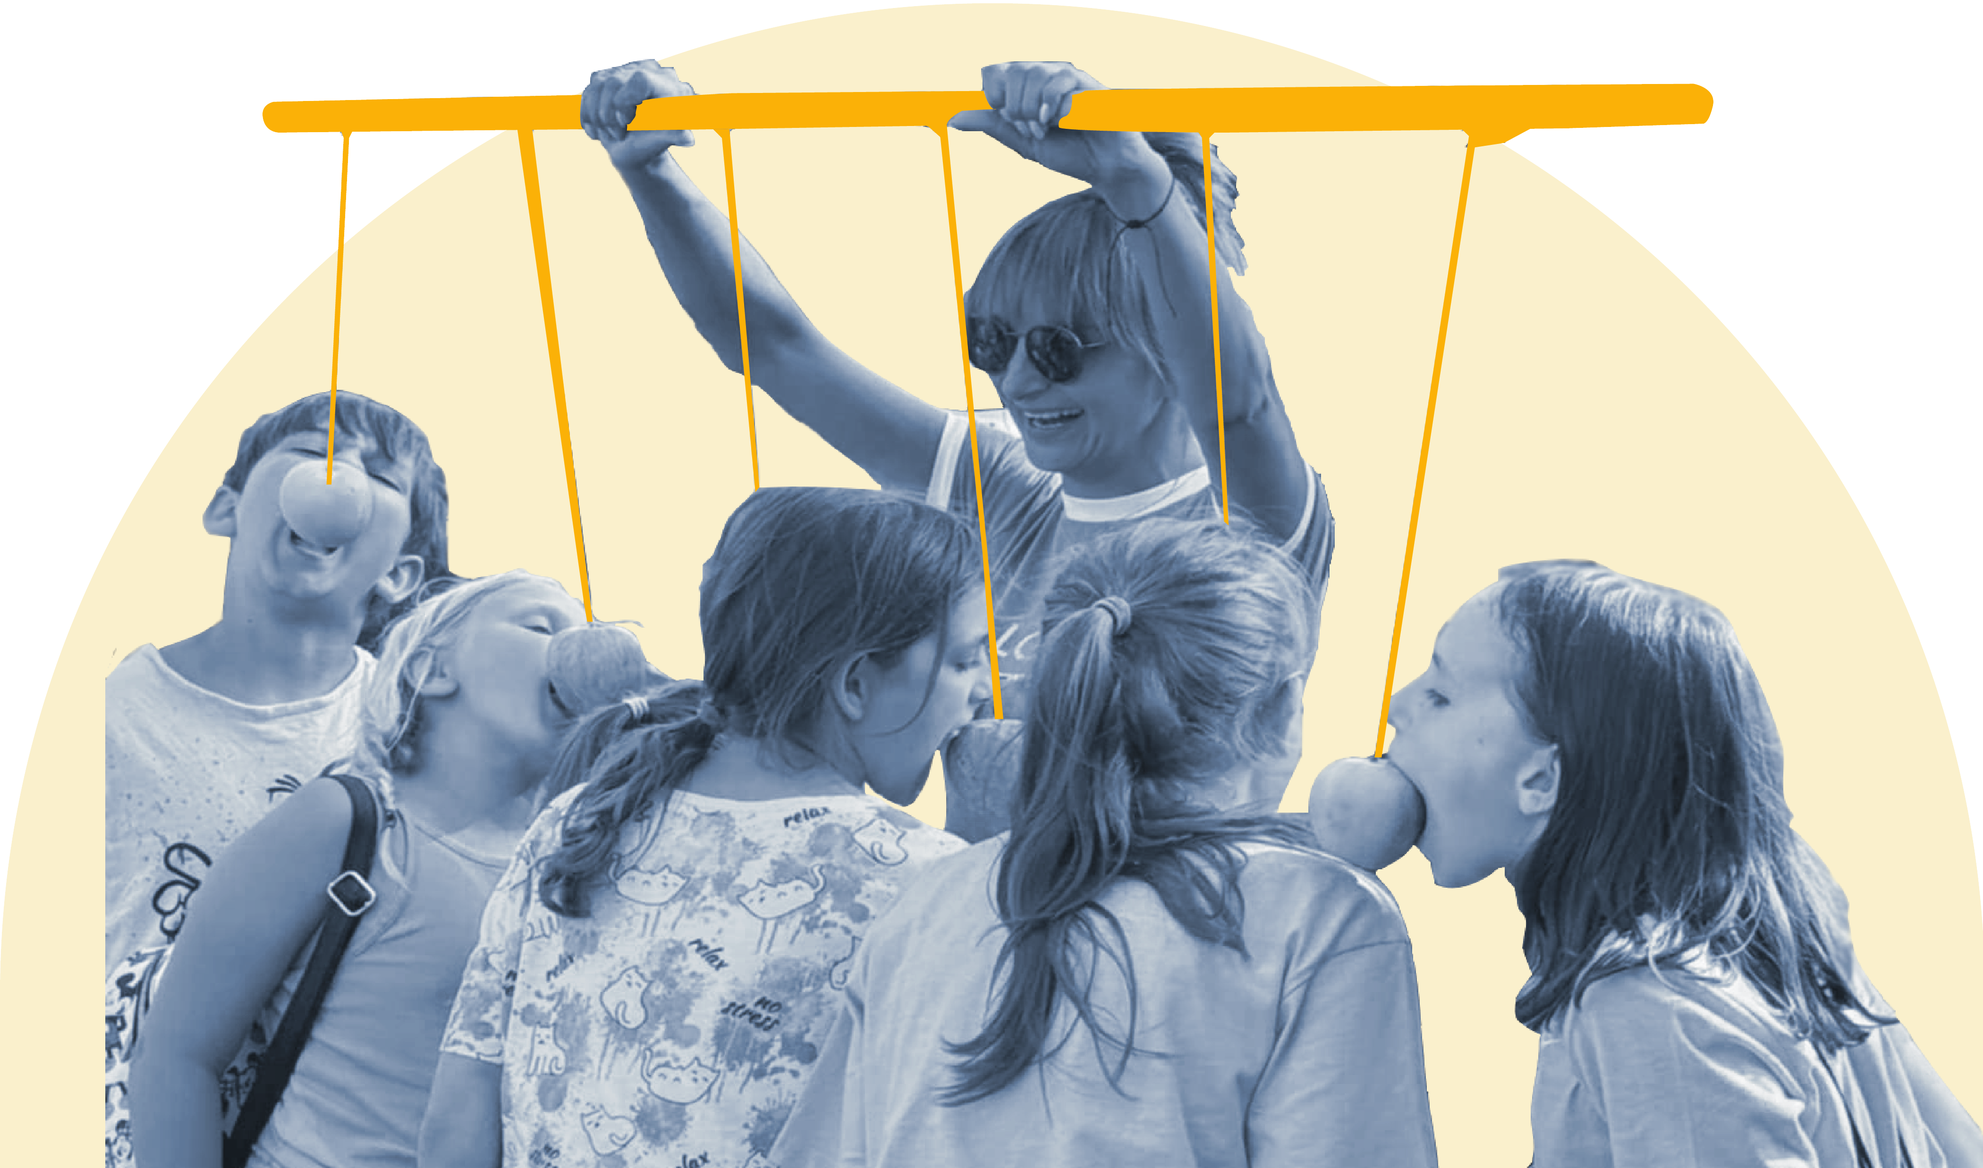
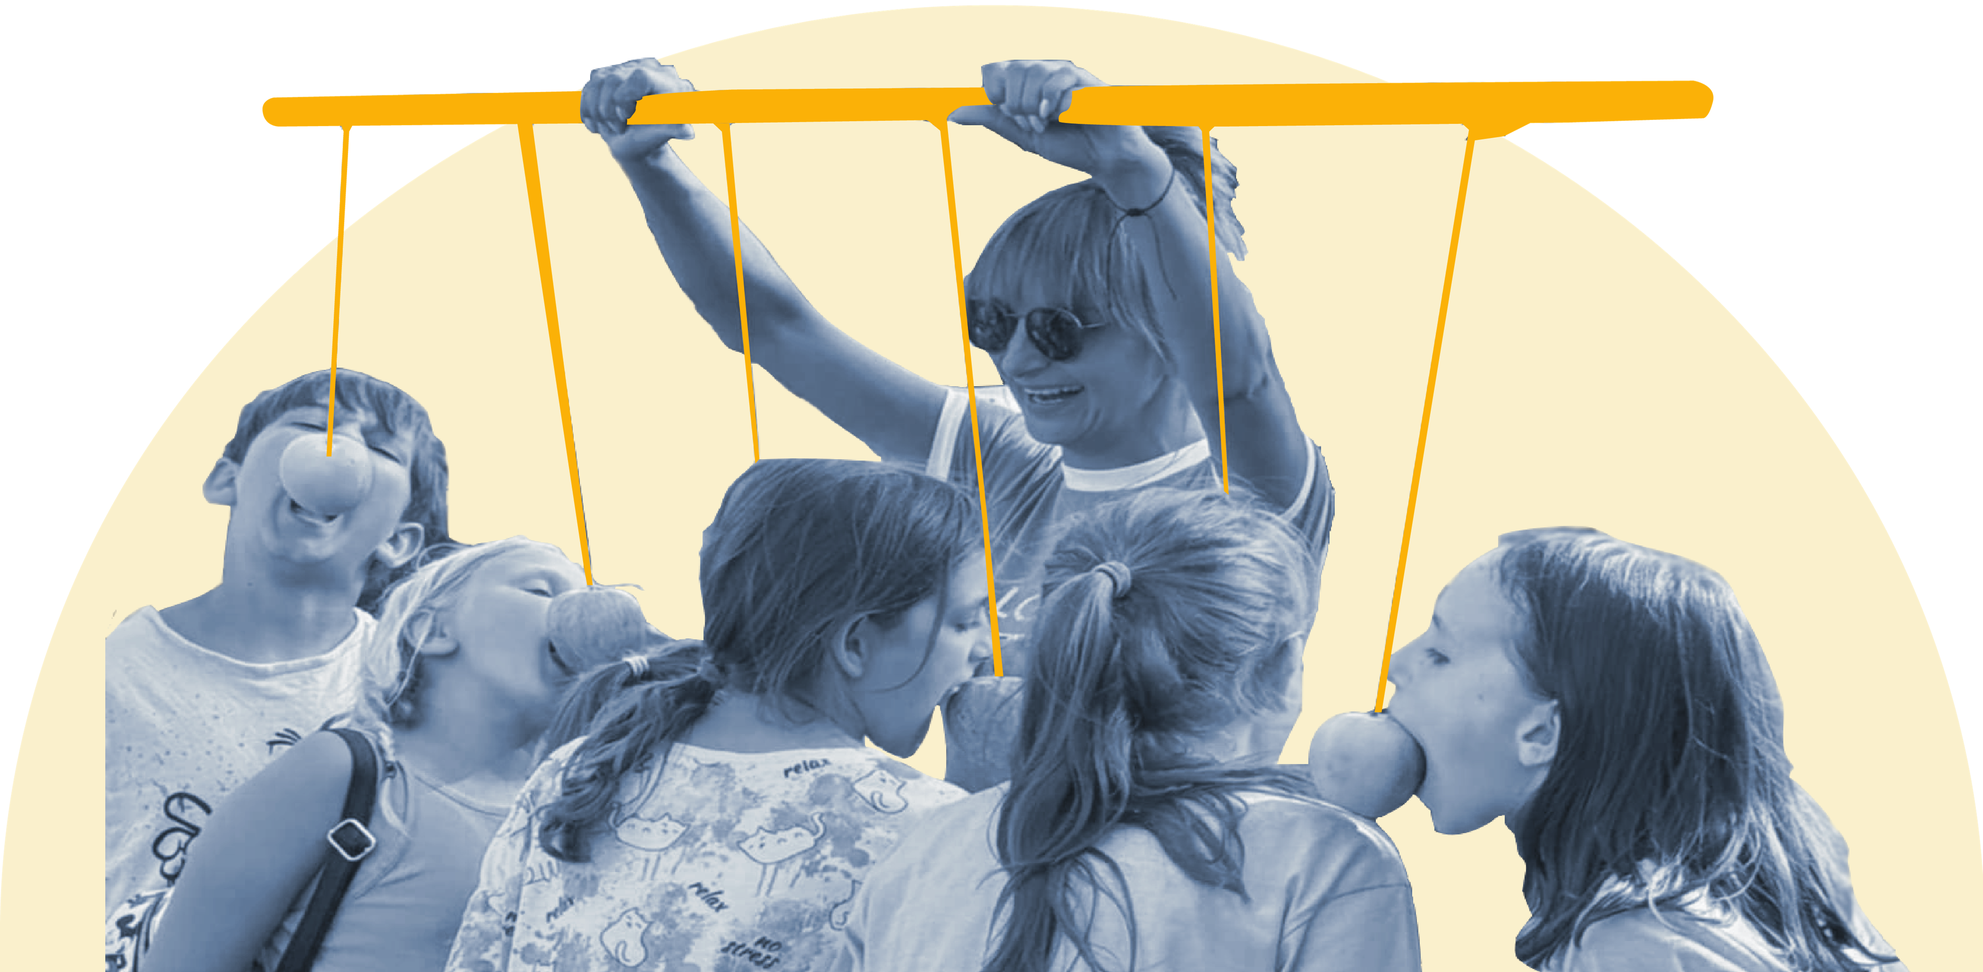
css changes

diff --git a/src/app/components/TextFiles.jsx b/src/app/components/TextFiles.jsx
@@ -1,64 +1,67 @@
 "use client";
 
 export default function TextFiles({ index }){
+    const div_base_styles = "text-black px-4 pb-4 md:px-10 md:pb-10 lg:px-12 lg:pb-12"
+    const h2_base_styles = "font-extrabold text-2xl md:text-4xl lg:text-6xl tracking-wide"
+    const p_base_styles = "text-wrap text-lg lg:text-xl mt-4"
     if(index === 0){
         return(
-            <div className="absolute inset-0 flex flex-col text-black p-4 md:p-10 lg:p-20">
-                <h2 className="text-4xl lg:text-5xl xl:text-7xl mb-2 font-extrabold">ROZKWIT</h2>
-                <p className="text-wrap mt-4 text-xl lg:text-2xl xl:text-3xl ">Umiemy rozwinąć Twój region tak, by niczego Ci nie brakowało. Nie jest to tylko suchy slogan. <strong>Od 2014 roku organizujemy największe lokalne wydarzenia i programy pod szyldem „My Młodzi” oraz „Nasze Miasto”</strong>, a dziś wspólnie jako fundacja „Rozkwit” zwiększamy jakość życia mieszkańców. Dotarliśmy do tysięcy rodzin z „Zwariowanymi Blokowiskami”, wsparliśmy dziesiątki nastolatków naszymi programami, pomogliśmy mieszkańcom w rozwiązywaniu ich codziennych problemów i ożywiliśmy imprezami nawet najbardziej zabetonowane zakątki miast.<strong> To dopiero początek, który możesz z nami tworzyć!</strong></p>
+            <div className={`${div_base_styles}`}>
+                <h2 className={`${h2_base_styles}`}>ROZKWIT</h2>
+                <p className={`${p_base_styles}`}>Umiemy rozwinąć Twój region tak, by niczego Ci nie brakowało. Nie jest to tylko suchy slogan. <strong>Od 2014 roku organizujemy największe lokalne wydarzenia i programy pod szyldem „My Młodzi” oraz „Nasze Miasto”</strong>, a dziś wspólnie jako fundacja „Rozkwit” zwiększamy jakość życia mieszkańców. Dotarliśmy do tysięcy rodzin z „Zwariowanymi Blokowiskami”, wsparliśmy dziesiątki nastolatków naszymi programami, pomogliśmy mieszkańcom w rozwiązywaniu ich codziennych problemów i ożywiliśmy imprezami nawet najbardziej zabetonowane zakątki miast.<strong> To dopiero początek, który możesz z nami tworzyć!</strong></p>
             </div>
         );
     }
     // tutaj poprawic
     else if (index === 1){
         return(
-            <div className="absolute inset-0 flex flex-col text-black p-4 md:p-10 lg:p-20">
-                <h2 className="text-4xl md:text-5xl xl:text-7xl font-extrabold">ZDOLNI!</h2> 
-                <p className="mt-4 text-xl overflow-auto md:text-2xl lg:text-xl xl:text-4xl text-wrap max-w-[60%] md:pr-20 lg:pr-40">Przegrani już na starcie. Wiele Młodych tak właśnie określa swoją sytuacje przez brak dostępu do wysokiej jakości placówek edukacyjnych, zajęć pozalekcyjnych, możliwości rozwoju. Tylko odważni nastolatkowie próbują sięgnąć po swoje marzenia. Właśnie dla nich tworzymy program „Zdolni!”. <strong>To pierwsze stypendium, które nie ogranicza się do sztywnych kryteriów takich jak oceny, osiągnięcia, czy zaangażowanie w szkole.</strong> Zgłosić może się każdy z swoim planem na rozwój. Doceniamy Młodych za ich pasję i pozwalamy im samodzielnie decydować, jak wykorzystać nagrodę, by spełniać marzenia i rozwijać swoje talenty. <strong>To właśnie my jako pierwsi w regionie doceniliśmy tak mocno Urszulę Sipko, kilkukrotną mistrzynię Polski i medalistkę mistrzostw Europy.</strong></p>
+            <div className={`${div_base_styles}`}>
+                <h2 className={`${h2_base_styles}`}>ZDOLNI!</h2> 
+                <p className={`${p_base_styles}`}>Przegrani już na starcie. Wiele Młodych tak właśnie określa swoją sytuacje przez brak dostępu do wysokiej jakości placówek edukacyjnych, zajęć pozalekcyjnych, możliwości rozwoju. Tylko odważni nastolatkowie próbują sięgnąć po swoje marzenia. Właśnie dla nich tworzymy program „Zdolni!”. <strong>To pierwsze stypendium, które nie ogranicza się do sztywnych kryteriów takich jak oceny, osiągnięcia, czy zaangażowanie w szkole.</strong> Zgłosić może się każdy z swoim planem na rozwój. Doceniamy Młodych za ich pasję i pozwalamy im samodzielnie decydować, jak wykorzystać nagrodę, by spełniać marzenia i rozwijać swoje talenty. <strong>To właśnie my jako pierwsi w regionie doceniliśmy tak mocno Urszulę Sipko, kilkukrotną mistrzynię Polski i medalistkę mistrzostw Europy.</strong></p>
             </div>
         );
     }
     else if(index === 2){
         return(
-            <div className="absolute inset-0 flex flex-col text-black p-4 md:p-10 lg:p-20">
-                <h2 className="text-3xl md:text-4xl lg:text-5xl xl:text-6xl font-bold">ZWARIOWANE BLOKOWISKA</h2>
-                <p className="mt-4 text-wrap text-base md:text-lg lg:text-xl xl:text-2xl">„Zwariowane Blokowiska” to wyjątkowy cykl wakacyjnych spotkań, który od 10 lat ożywia osiedla i wnosi kulturę, sport oraz rekreację tam, gdzie często brakuje takich możliwości. <strong>Naszym celem jest dotarcie do dzieci i ich rodziców z mniejszych społeczności, którzy na co dzień nie mają dostępu do podobnych atrakcji. Od dmuchanych zjeżdżalni i darmowych lodów, po spektakle teatralne – każda edycja to nie tylko zabawa, ale także inspiracja i budowanie więzi.</strong> „Zwariowane Blokowiska” to coś więcej niż rozrywka – to tworzenie przestrzeni, gdzie każdy, bez względu na miejsce zamieszkania, może poczuć się częścią czegoś wyjątkowego.</p>
+            <div className={`${div_base_styles}`}>
+                <h2 className={`${h2_base_styles}`}>ZWARIOWANE BLOKOWISKA</h2>
+                <p className={`${p_base_styles}`}>„Zwariowane Blokowiska” to wyjątkowy cykl wakacyjnych spotkań, który od 10 lat ożywia osiedla i wnosi kulturę, sport oraz rekreację tam, gdzie często brakuje takich możliwości. <strong>Naszym celem jest dotarcie do dzieci i ich rodziców z mniejszych społeczności, którzy na co dzień nie mają dostępu do podobnych atrakcji. Od dmuchanych zjeżdżalni i darmowych lodów, po spektakle teatralne – każda edycja to nie tylko zabawa, ale także inspiracja i budowanie więzi.</strong> „Zwariowane Blokowiska” to coś więcej niż rozrywka – to tworzenie przestrzeni, gdzie każdy, bez względu na miejsce zamieszkania, może poczuć się częścią czegoś wyjątkowego.</p>
             </div>
         )
     }
     
     else if(index === 3){
         return(
-            <div className="absolute inset-0 flex flex-col text-black p-4 md:p-10 lg:p-20">
-                <h2 className="text-4xl md:text-5xl xl:text-7xl font-bold">AKTYWATOR</h2> 
-                <p className="mt-4 text-wrap text-base md:text-2xl lg:text-[1.6vw]">Ponad połowa uczniów w Polsce nie odczuwa motywacji, a prawie 60% czuje się bezużyteczna. Musieliśmy zacząć działać, by dać Młodym promyk nadziei. Tak powstał program „Aktywator”. <strong>Cykl szkoleń skierowany do uczniów szkół średnich, na których eksperci ukazują jak nastolatkowie mogą zmieniać swoje najbliższe otoczenie.</strong> Nasze warsztaty to praktyczne lekcje negocjacji, zarządzania projektami i pracy zespołowej, ale przede wszystkim przestrzeń, gdzie Młodzi czują, że ich pomysły mają znaczenie. </p>
+            <div className={`${div_base_styles}`}>
+                <h2 className={`${h2_base_styles}`}>AKTYWATOR</h2> 
+                <p className={`${p_base_styles}`}>Ponad połowa uczniów w Polsce nie odczuwa motywacji, a prawie 60% czuje się bezużyteczna. Musieliśmy zacząć działać, by dać Młodym promyk nadziei. Tak powstał program „Aktywator”. <strong>Cykl szkoleń skierowany do uczniów szkół średnich, na których eksperci ukazują jak nastolatkowie mogą zmieniać swoje najbliższe otoczenie.</strong> Nasze warsztaty to praktyczne lekcje negocjacji, zarządzania projektami i pracy zespołowej, ale przede wszystkim przestrzeń, gdzie Młodzi czują, że ich pomysły mają znaczenie. </p>
             </div>
         );
     }
     
     else if(index === 4){
         return(
-            <div className="absolute inset-0 flex flex-col text-black p-4 md:p-10 lg:p-20">
-                <h2 className="text-3xl md:text-4xl xl:text-6xl font-bold">ROZRYWKA</h2>
-                <p className="mt-4 pr-10 text-base md:text-3xl overflow-auto lg:text-xl xl:text-4xl 2xl:text-5xl max-w-[50%] text-wrap md:pr-24">Czy pamiętasz, kiedy ostatnio bawiłeś się tak, że chciałeś, by wieczór trwał wiecznie? My chcemy, żeby takie chwile były normą w Bartoszycach. <strong>Dlatego zamiast kolejnego festiwalu disco polo, proponujemy wydarzenia z charakterem.</strong> Koncerty, Silent Disco, DJ sety, imprezy, konkursy i wiele więcej. Ożywiamy miasto, ale także pokazujemy mieszkańcom, że rozrywka może być różnorodna i niezapomniana.</p>
+            <div className={`text-black px-6 pb-6 md:px-12 md:pb-12 lg:px-16 lg:pb-16`}>
+                <h2 className={`${h2_base_styles}`}>ROZRYWKA</h2>
+                <p className={`text-wrap text-xl lg:text-2xl mt-6`}>Czy pamiętasz, kiedy ostatnio bawiłeś się tak, że chciałeś, by wieczór trwał wiecznie? My chcemy, żeby takie chwile były normą w Bartoszycach. <strong>Dlatego zamiast kolejnego festiwalu disco polo, proponujemy wydarzenia z charakterem.</strong> Koncerty, Silent Disco, DJ sety, imprezy, konkursy i wiele więcej. Ożywiamy miasto, ale także pokazujemy mieszkańcom, że rozrywka może być różnorodna i niezapomniana.</p>
             </div>
         );
     }
     
     else if(index === 5){
         return(
-            <div className="absolute inset-0 flex flex-col text-black p-4 md:p-8 lg:p-16">
-                <h2 className="text-4xl md:text-5xl xl:text-7xl font-bold">INFRASTRUKTURA</h2>
-                <p className="mt-4 text-base md:text-xl lg:text-[1.6vw] text-wrap">Czy Twoje miasto naprawdę odpowiada na Twoje potrzeby? Podczas spacerów badawczych analizujemy przestrzeń miejską i odkrywamy, jak wiele potencjału naszych miast marnuje się przez błędy w ich organizacji. Przyglądamy się chodnikom, zieleni, stanowi technicznemu ulic i osiedli, zbieramy opinie mieszkańców i zgłaszamy konkretne wnioski do urzędów, by wprowadzać realne zmiany. Wspólnie projektujemy rozwiązania, które sprawiają, że miasta stają się bardziej funkcjonalne, dostępne i przyjazne. <strong>Działamy po to, byś czuł się lepiej w każdym miejscu swojego miasta – na osiedlu, w parku, na placu zabaw z dzieckiem czy idąc na zakupy.</strong></p>
+            <div className={`${div_base_styles}`}>
+                <h2 className={`${h2_base_styles}`}>INFRASTRUKTURA</h2>
+                <p className={`${p_base_styles}`}>Czy Twoje miasto naprawdę odpowiada na Twoje potrzeby? Podczas spacerów badawczych analizujemy przestrzeń miejską i odkrywamy, jak wiele potencjału naszych miast marnuje się przez błędy w ich organizacji. Przyglądamy się chodnikom, zieleni, stanowi technicznemu ulic i osiedli, zbieramy opinie mieszkańców i zgłaszamy konkretne wnioski do urzędów, by wprowadzać realne zmiany. Wspólnie projektujemy rozwiązania, które sprawiają, że miasta stają się bardziej funkcjonalne, dostępne i przyjazne. <strong>Działamy po to, byś czuł się lepiej w każdym miejscu swojego miasta – na osiedlu, w parku, na placu zabaw z dzieckiem czy idąc na zakupy.</strong></p>
             </div>
         );
     }
     
     else if(index === 6){
         return(
-            <div className="absolute inset-0 flex flex-col text-black p-4 md:p-10 lg:p-20">
-                <h2 className="text-4xl md:text-5xl xl:text-6xl font-bold">TWOJE SPRAWY</h2>
-                <p className="mt-4 text-sm md:text-xl lg:text-[1.6vw] text-wrap ">Twoje problemy są dla nas priorytetem. To od nich zaczynamy każde działanie. W przeciwieństwie do innych, stawiamy na jakość, która nie jest tylko sloganem, ale konkretnym działaniem opartym na badaniach i realnych potrzebach mieszkańców. <strong>Analizujemy, organizujemy, pracujemy z ekspertami i wprowadzamy zmiany, które mają znaczenie.</strong> To Ty decydujesz, jakie miasto tworzysz, a my pomagamy to zrealizować. Twoja darowizna to nie tylko wsparcie, ale także narzędzie, dzięki któremu masz wpływ na swoje otoczenie. Czy akurat to czego Ci brakuje w Twoim mieście, to nie jest jakość? <strong>My ją zapewniamy.</strong></p>
+            <div className={`${div_base_styles}`}>
+                <h2 className={`${h2_base_styles}`}>TWOJE SPRAWY</h2>
+                <p className={`${p_base_styles}`}>Twoje problemy są dla nas priorytetem. To od nich zaczynamy każde działanie. W przeciwieństwie do innych, stawiamy na jakość, która nie jest tylko sloganem, ale konkretnym działaniem opartym na badaniach i realnych potrzebach mieszkańców. <strong>Analizujemy, organizujemy, pracujemy z ekspertami i wprowadzamy zmiany, które mają znaczenie.</strong> To Ty decydujesz, jakie miasto tworzysz, a my pomagamy to zrealizować. Twoja darowizna to nie tylko wsparcie, ale także narzędzie, dzięki któremu masz wpływ na swoje otoczenie. Czy akurat to czego Ci brakuje w Twoim mieście, to nie jest jakość? <strong>My ją zapewniamy.</strong></p>
             </div>
         );
     }

diff --git a/src/app/page.js b/src/app/page.js
@@ -1,7 +1,7 @@
 "use client";
 import "./globals.css";
 import Autoplay from "embla-carousel-autoplay"
-import Checkout from './components/checkout'
+// import Checkout from './components/checkout'
 import {
   Carousel,
   CarouselContent,
@@ -11,6 +11,7 @@ import {
 } from "@/components/ui/carousel"
 import Image from 'next/image';
 import TextFiles from './components/TextFiles';
+
 export default function Home() {
   const photos = [
     "/slide1.png",
@@ -21,75 +22,73 @@ export default function Home() {
     "/slide6.png",
     "/slide7.png",
   ]
+
   return (
     <>
-      <main>
-        <div className="flex flex-col lg:flex-row h-screen">
-          <div className="relative min-w-[70%] bg-contain">
-            <div
-              className="relative min-h-full overflow-hidden  min-w-full bg-cover bg-center block"
-            >
-              <Carousel
-              // plugins={[
-              //   Autoplay({
-              //     delay: 15000,
-              //   }),
-              // ]}
-              opts={{
-                align: "start",
-                loop: true,
-              }}
+      <main className="flex flex-col lg:flex-row h-screen">
+        <div className="min-w-[70%] relative">
+          <Carousel
+          // plugins={[
+          //   Autoplay({
+          //     delay: 15000,
+          //   }),
+          // ]}
+          opts={{
+            align: "start",
+            loop: true,
+          }}
+          >
+            <CarouselContent className="h-full">
+              {photos.map((photo, i) => (
+                <CarouselItem key={i} className="h-[100vh]">
+                  <div className={`relative grid ${i === 1 || i === 4 ? 'grid-cols-2' : 'grid-rows-2'} h-full`}>
+                    
+                    <div className="relative p-2 overflow-y-auto z-10">
+                      <TextFiles index={i} />
+                    </div>
+
+                    <div className="relative w-full h-full">
+                      <Image
+                        alt="Opis działań fundacji"
+                        src={photo}
+                        fill
+                        // jak sie nie bedzie podobac to mozna zmienic na object-contain
+                        className={`object-contain ${i === 1 || i === 4 ? 'object-right' : 'object-bottom'} `}
+                        priority
+                        sizes="(max-width: 2048px) 100vw, 100vw"
+                      />
+                    </div>
+                  </div>
+              </CarouselItem>
+              ))}
+            </CarouselContent>
+            <CarouselPrevious className="z-100 left-2"/>
+            <CarouselNext className="z-100 right-2"/>
+          </Carousel>
+
+          <div v-show="isMobile" className="fixed bottom-4 left-1/2 transform -translate-x-1/2 z-50">
+            <div v-show="showScrollButton">
+              <button
+                onClick="scrollToBottom"
+                className="p-2 bg-blue-500 text-white rounded-full shadow-lg hover:bg-blue-700 focus:outline-none"
               >
-                <CarouselContent>
-                  {photos.map((photo, i) => (
-                    <CarouselItem key={i}>
-                      <div className={`relative grid ${i === 1 || i === 4 ? 'grid-cols-2' : 'grid-rows-2'} min-h-[100vh]`}>
-                        <div className="">
-                          <TextFiles index={i}/>
-                        </div>
-                        <div className="aspect-auto">
-                          <Image
-                            alt="Opis działań fundacji"
-                            src={photo}
-                            // quality={100}
-                            fill
-                            className={`object-contain ${i === 1 || i === 4 ? 'object-right' : 'object-bottom'} `}
-                            priority
-                          />
-                        </div>
-                      </div>
-                  </CarouselItem>
-                  ))}
-                </CarouselContent>
-                <CarouselPrevious className="z-20"/>
-                <CarouselNext className="z-20"/>
-              </Carousel>
+                <svg className="w-6 h-6" xmlns="http://www.w3.org/2000/svg" fill="none" viewBox="0 0 24 24" stroke="currentColor">
+                  <path stroke-linecap="round" stroke-linejoin="round" stroke-width="2" d="M19 9l-7 7-7-7" />
+                </svg>
+              </button>
             </div>
-
-            {/* <div v-show="isMobile" className="fixed bottom-4 left-1/2 transform -translate-x-1/2 z-50">
-              <div v-show="showScrollButton">
-                <button
-                  @click="scrollToBottom"
-                  className="p-2 bg-blue-500 text-white rounded-full shadow-lg hover:bg-blue-700 focus:outline-none"
-                >
-                  <svg className="w-6 h-6" xmlns="http://www.w3.org/2000/svg" fill="none" viewBox="0 0 24 24" stroke="currentColor">
-                    <path stroke-linecap="round" stroke-linejoin="round" stroke-width="2" d="M19 9l-7 7-7-7" />
-                  </svg>
-                </button>
-              </div>
-            </div> */}
           </div>
+        </div>
 
-          <div id="checkout" className="flex flex-grow flex-col text-center items-center p-7 bg-[#2b3e95]">
-            <h1 className="text-4xl md:text-6xl lg:text-[3vw] font-bold text-white uppercase px-10">Współtwórz</h1>
-            <h1 className="text-4xl md:text-6xl lg:text-[3vw] font-bold text-white uppercase px-10 mb-5">z nami przyszłość!</h1>
-            <p className="text-base md:text-3xl lg:text-[1.4vw] text-white justify-between text-wrap p-4">
-              Postaw na jakość i skuteczność. <strong>Twoja darowizna pozwala nam tworzyć programy i inicjatywy, które zmieniają życie mieszkańców.</strong> Razem możemy działać jeszcze skutecznie j i odpowiadać na potrzeby lokalnych społeczności. Wspólnie możemy więcej!
-            </p>
-            <br/>
-            <div className="bg-white rounded-lg overflow-scroll">
-              <Checkout />
-            </div>
+        <div id="checkout" className="flex flex-grow flex-col text-center items-center p-7 bg-[#2b3e95]">
+          <h1 className="text-4xl md:text-6xl lg:text-[3vw] font-bold text-white uppercase px-10">Współtwórz</h1>
+          <h1 className="text-4xl md:text-6xl lg:text-[3vw] font-bold text-white uppercase px-10 mb-5">z nami przyszłość!</h1>
+          <p className="text-base md:text-3xl lg:text-[1.4vw] text-white justify-between text-wrap p-4">
+            Postaw na jakość i skuteczność. <strong>Twoja darowizna pozwala nam tworzyć programy i inicjatywy, które zmieniają życie mieszkańców.</strong> Razem możemy działać jeszcze skutecznie j i odpowiadać na potrzeby lokalnych społeczności. Wspólnie możemy więcej!
+          </p>
+          <br/>
+          <div className="bg-white rounded-lg overflow-scroll">
+            {/* <Checkout /> */}
           </div>
         </div>
       </main>

diff --git a/src/app/layout.js b/src/app/layout.js
@@ -12,9 +12,16 @@ export const metadata = {
   description: "Fundacja My Mlodzi",
 };
 
+export const viewport = {
+  width: 'device-width',
+  initialScale: 1,
+}
 export default function RootLayout({ children }) {
   return (
     <html lang="pl">
+      <head>
+        <meta name="viewport" content="width=device-width, initial-scale=1.0" />
+      </head>
       <body
         className={`${poppins.variable} antialiased`}
       >
